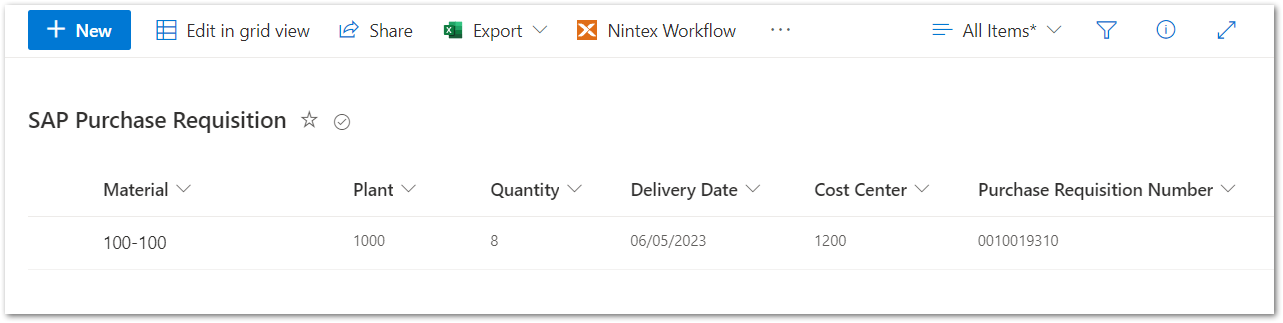
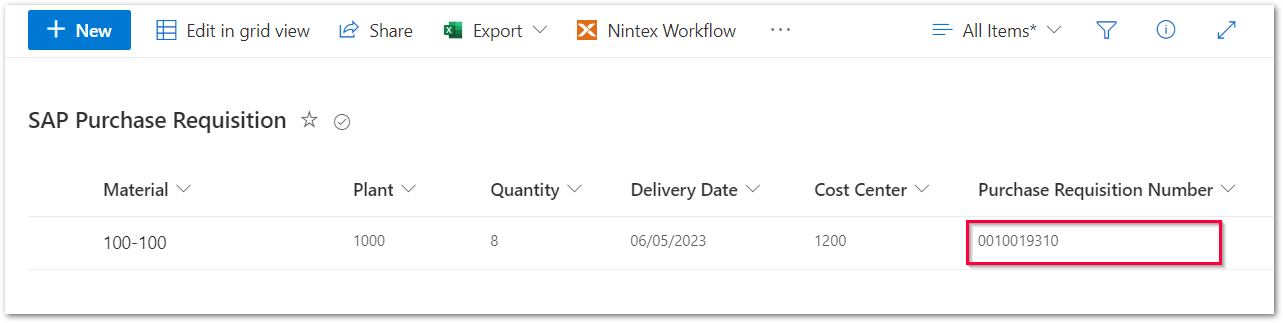
power automate process

Changed region(s): [[0.7482, 0.6811, 0.9665, 0.8359]]

diff --git a/content/_yunio/sharepoint-purchase-requisition-with-yunIO.md b/content/_yunio/sharepoint-purchase-requisition-with-yunIO.md
@@ -80,7 +80,7 @@ BAPI_PR_CREATE require this commit function to successfully update data in the d
 
 ### Setup in SharePoint
 
-Create a SharePoint list that provides SAP related fields.
+Create a SharePoint list that provides SAP-related fields.
 For this example, create the following columns:
 - Material
 - Plant
@@ -89,7 +89,7 @@ For this example, create the following columns:
 - Cost Center
 - Purchase Requisition Number (when a purchase requisition number is created in SAP, it is written back to this column)
 
-![sharepoint-purchase-requisition](/img/contents/yunio/sharepoint-purchase-requisition.png){:class="img-responsive" }
+![sharepoint-purchase-requisition](/img/contents/yunio/sharepoint-purchase-requisition0.png){:class="img-responsive" }
 
 For more information on SharePoint lists, see [Microsoft Documentation: Introduction to lists](https://support.microsoft.com/en-us/office/introduction-to-lists-0a1c3ace-def0-44af-b225-cfa8d92c52d7).
 
@@ -102,64 +102,21 @@ For more information on SharePoint lists, see [Microsoft Documentation: Introduc
 
 ### Setup in Power Automate
 
-{: .box-note }
-**Note:** When integrating services from a local yunIO installation with a cloud hosted platform like Power Automate, a gateway to tunnel the connection is recommended, e.g., the [**Microsoft On-premises data gateway**](https://docs.microsoft.com/en-us/data-integration/gateway/).
-For more information about yunIO networking settings, see [yunIO Networking Scenarios](https://kb.theobald-software.com/yunio/networking).
-
-1. Open the section **Data > Custom Connectors** in Power Automate and click on **+ New custom connector**.
-2. Click on **Import an OpenAPI file** and give the connector a name of your choice. Select the service definition from [Setup in yunIO](#setup-in-yunio) from your harddrive and click **Continue**. 
-3. In the **General** tab you can define general information for the custom connector. <br> 
-- With **Upload** you can upload a connector icon of your choice. Defining an alternative icon background color or a service description is optional.  
-- If you use an on-premises data gateway, activate the checkbox **Connect via on-premises gateway**.<br>
-- **Scheme**: With [TLS enabled](https://help.theobald-software.com/en/yunio/server-settings#transport-layer-security) in the yunIO server settings, the HTTPS scheme is pre-selected. In this example TLS is disabled, so the HTTP scheme is set.<br> 
-- Under **Host** the host address for the yunIO service consumption with its respective port is preset. For local installations the host address is `localhost:[port]`.<br> 
-- The **Base URL** represents extensions of the REST service URL that is triggered by the custom connector. <br>
-![Power-Automate-Custom-Connector-Ceneral.png](/img/contents/yunio/power-automate-custom-connector-general.png){:class="img-responsive"}
-4. In the **Security** tab you can select the authentication type for service consumption. <br> 
-- *No authentication* is pre-set. This means that there is no authentication required by users calling the connector. <br>
-- If [*Request credentials from callers when running services*](https://help.theobald-software.com/en/yunio/sap-connection#authentication) is enabled in the yunIO connection settings, you can also select *Basic authentication*. 
-This means that the SAP user name and password used for the SAP connection, must be stored in the Connection Settings defined in the [**Test** tab](#testing-the-service).
-- This example uses *Basic authentication* and labels the parameters *SAP User* and *Password*
-![Power-Automate-Custom-Connector-Security.png](/img/contents/yunio/power-automate-custom-connector-security.png){:class="img-responsive"} 
-![Power-Automate-Custom-Connector-Security-Basic.png](/img/contents/yunio/power-automate-custom-connector-security-basic.png){:class="img-responsive"} 
-5. The **Definition** tab gives an overview about the yunIO service definition. No changes necessary. This also applies to the **Code (Preview)** tab.
-
-{: .box-note }
-**Note:** Before the service can be tested in the **Test** tab, the custom connector must be published with **Create connector**. 
-
-{: .box-tip }
-**Tip:** When testing a new custom connector, you can switch to **Swagger Editor** mode and paste test sets directly from Swagger Editor / Swagger Inspector.
-For more information on how to test yunIO services in Swagger Inspector, refer to the knowledge base article [Running a yunIO Service in Swagger Inspector](https://kb.theobald-software.com/yunio/running-a-yunio-service-in-swagger-inspector).
-
-### Testing the Service
-
-The custom connector can be tested in the **Test** tab. <br>
-- Create a connection with **+ New connection**. 
-- Enter the credentials of the SAP user you have defined in the yunIO connection settings. If you select to connect via an on-premises gateway in the *General* tab, select your gateway instance.
-- Confirm the settings with **Create connection**.   
-
-![Power-Automate-Custom-Connector-Test-Connection.png](/img/contents/yunio/power-automate-custom-connector-test-connection.png){:class="img-responsive"} 
-
-To test run the service 
-- **(1)** enter valid import values for the parameters you defined as *Supplied by caller* in the yunIO service settings. 
-- **(2)** click **Test operation**. 
-- **(3)** the SAP response is displayed in the Request Body. 
-
-![Power-Automate-Custom-Connector-Test-Operation.png](/img/contents/yunio/power-automate-custom-connector-test-operation.png){:class="img-responsive"} 
-
-{: .box-tip }
-**Tip:** For services calling Function Modules or BAPIs that use tables or structured input information, switch **Raw Body** off to get a better structured input screen.
+1. Integrate the yunIO service created in [Setup in yunIO](#setup-in-yunio) as a Custom Connector in Power Automate, see [Integrating a yunIO Service with Power Automate](https://kb.theobald-software.com/yunio/integrating-a-yunio-service-with-power-automate#configuring-a-yunio-custom-connector-in-power-automate).
+2. Create a new workflow that is triggered when a new item is added to the SharePoint list.
+3. Add the yunIO connector created in step 1 to the workflow and map the purchase requisition data from SharePoint to the input parameters of yunIO.<br>
+![sharepoint-purchase-requisition3](/img/contents/yunio/sharepoint-purchase-requisition3.png){:class="img-responsive"}
+4. Make sure that the SharePoint input uses the right format, e.g., the delivery date must have the SAP format `YYYYmmDD` and the cost center must have 10 characters, including leading zeroes.
+5. Add a SharePoint **Update Item** tool to write the purchase requisition number from the yunIO Custom Connector back to the SharePoint list.<br>
+![sharepoint-purchase-requisition2](/img/contents/yunio/sharepoint-purchase-requisition2.png){:class="img-responsive"}
+7. Optional: Send notifications when a purchase requisition is created. 
+8. Turn on the workflow.
 
 
-### Using the Service in a Power Automate Flow
-After a connector is successfully tested, it can be used in a Flow. 
-- Add a new action to the Flow and search for the name of the custom connector. <br>
-![Power-Automate-Custom-Connector-Flow-Action.png](/img/contents/yunio/power-automate-custom-connector-flow-action.png){:class="img-responsive"} 
-- Once the connector is added, the input fields can be parameterized. <br>
-![Power-Automate-Custom-Connector-Flow.png](/img/contents/yunio/power-automate-custom-connector-flow.png){:class="img-responsive"} 
+### Triggering the Process
 
-******
+1. Open SharePoint and add a new purchase requisition.
+2. The Power Automate workflow runs and creates the purchase requisition in SAP.
+3. Check if the SAP purchase requisition number is written back to SharePoint.
+![sharepoint-purchase-requisition](/img/contents/yunio/sharepoint-purchase-requisition.png){:class="img-responsive" }
 
-#### Related Links
-- [Youtube Tutorial: SAP process automation - Power Automate SAP Connector](https://www.youtube.com/watch?v=k_yL8Bphfus)
-- [yunIO Help: How to Run a Service](https://help.theobald-software.com/en/yunio#how-to-run-a-service)

diff --git a/content/_yunio/salesforce-power-automate-scenario.md b/content/_yunio/salesforce-power-automate-scenario.md
@@ -39,7 +39,7 @@ Select CUSTOMERNO for export. This Export parameter contains the newly created S
 
 ### Setup in Salesforce
 
-Customize your Salesforce account to provide SAP related fields:
+Customize your Salesforce account to provide SAP-related fields:
 - Create a field *SAP ID*. Once a customer is created in SAP, the customer number is written back into *SAP ID*.
 - *Company Code*, *Sales Org*, *Distribution Channel* and *Division* are organization details required to create the SAP customer.
 - Create a checkbox that indicates if the customer exists in SAP.
@@ -54,9 +54,9 @@ For more information on how to customize fields in Salesforce, see [Salesforce D
 
 ### Setup in Power Automate
 
-1. Integrate the yunIO service created in [Setup in yunIO](#setup-in-yunio) in Power Automate, see [Integrating a yunIO Service with Power Automate](https://kb.theobald-software.com/yunio/integrating-a-yunio-service-with-power-automate#configuring-a-yunio-custom-connector-in-power-automate).
+1. Integrate the yunIO service created in [Setup in yunIO](#setup-in-yunio) as a Custom Connector in Power Automate, see [Integrating a yunIO Service with Power Automate](https://kb.theobald-software.com/yunio/integrating-a-yunio-service-with-power-automate#configuring-a-yunio-custom-connector-in-power-automate).
 2. Create a new workflow that is triggered when a Salesforce account is modified (1).
-3. Check if the account type is *Customer - Direct* and if the customer does not yet exist in SAP (2).<br>
+3. Check if the account type in Salesforce is set to *Customer - Direct* and if the customer does not yet exist in SAP (2).<br>
 If one or both conditions are false, end the workflow (3).
 If both conditions are true, execute the yunIO service to write the customer data to SAP (4).<br>
 ![power-automate-salesforce-conditions](/img/contents/yunio/power-automate-salesforce-conditions.png){:class="img-responsive"}
@@ -72,7 +72,7 @@ If TYPE does not equal 'E' (error), the SAP customer number is written back to S
 
 ### Triggering the Process
 
-1. Go to Salesforce and change the account type from *Prospect* to *Customer - Direct*.
+1. Open Salesforce and change the account type from *Prospect* to *Customer - Direct*.
 Make sure that the checkbox *In SAP* is deactivated.
 2. The Power Automate workflow runs and creates the customer in SAP. <br>
 ![power-automate-finished](/img/contents/yunio/power-automate-finished.png){:class="img-responsive"}
